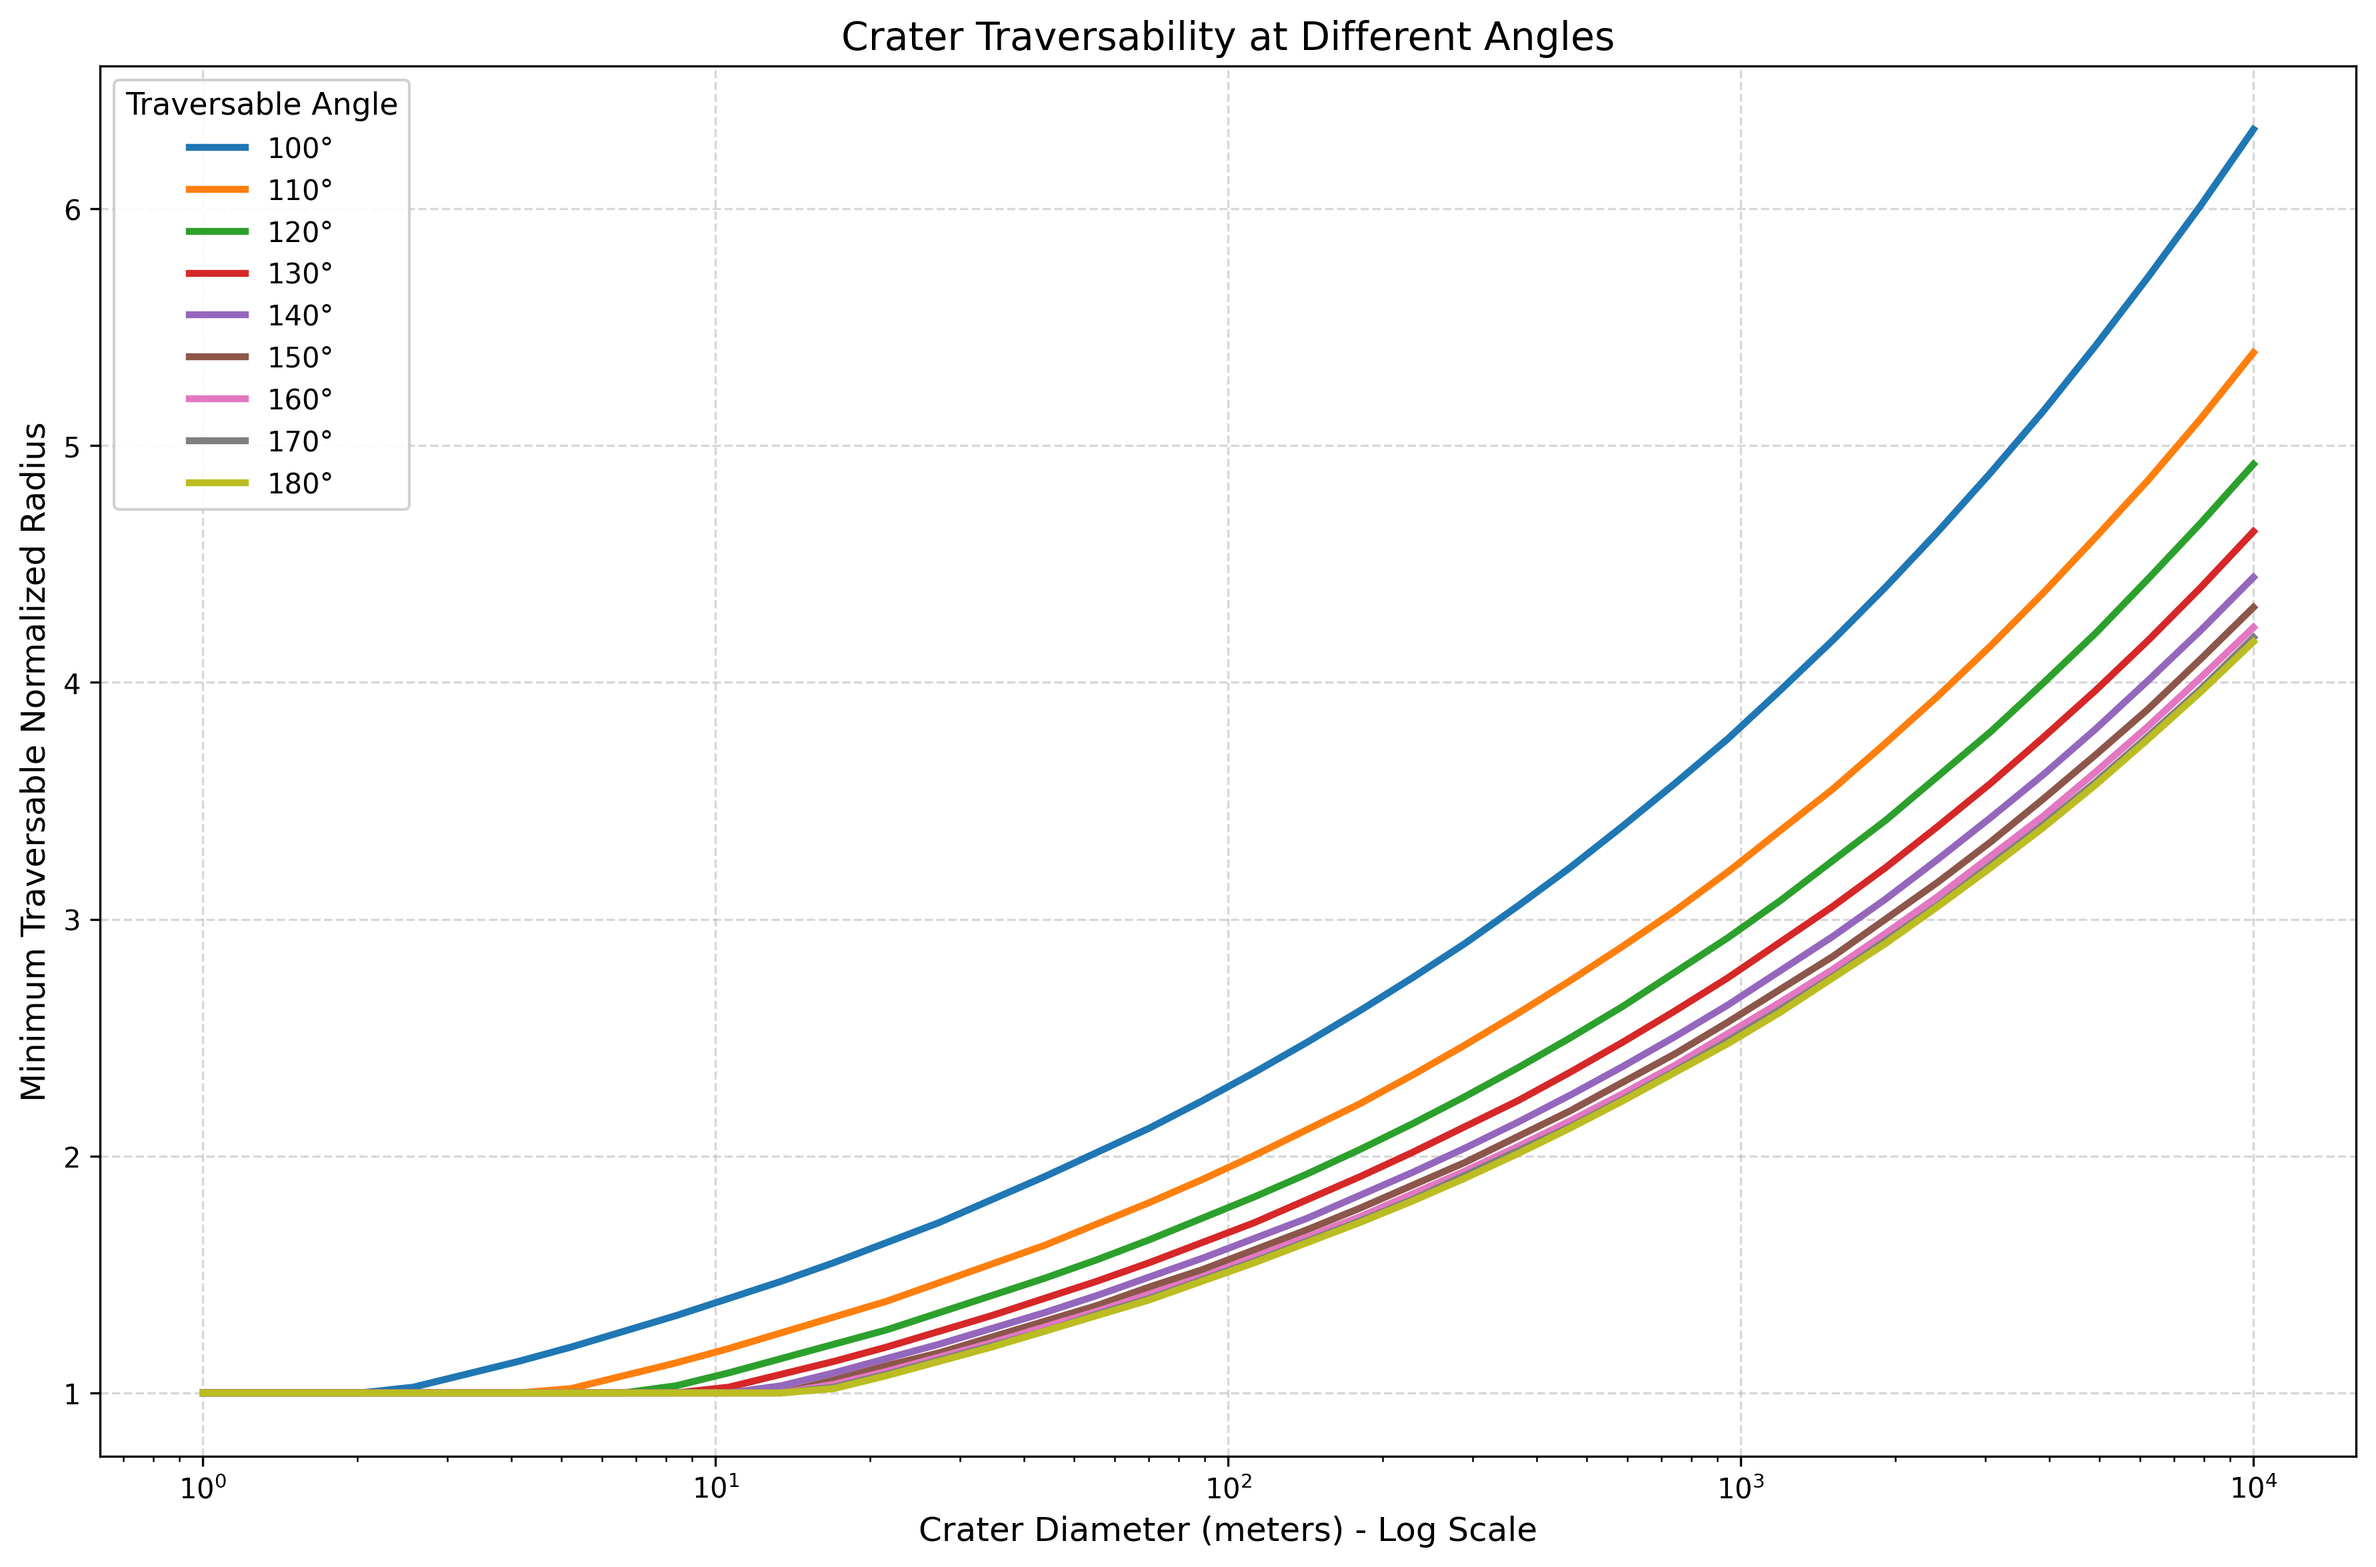
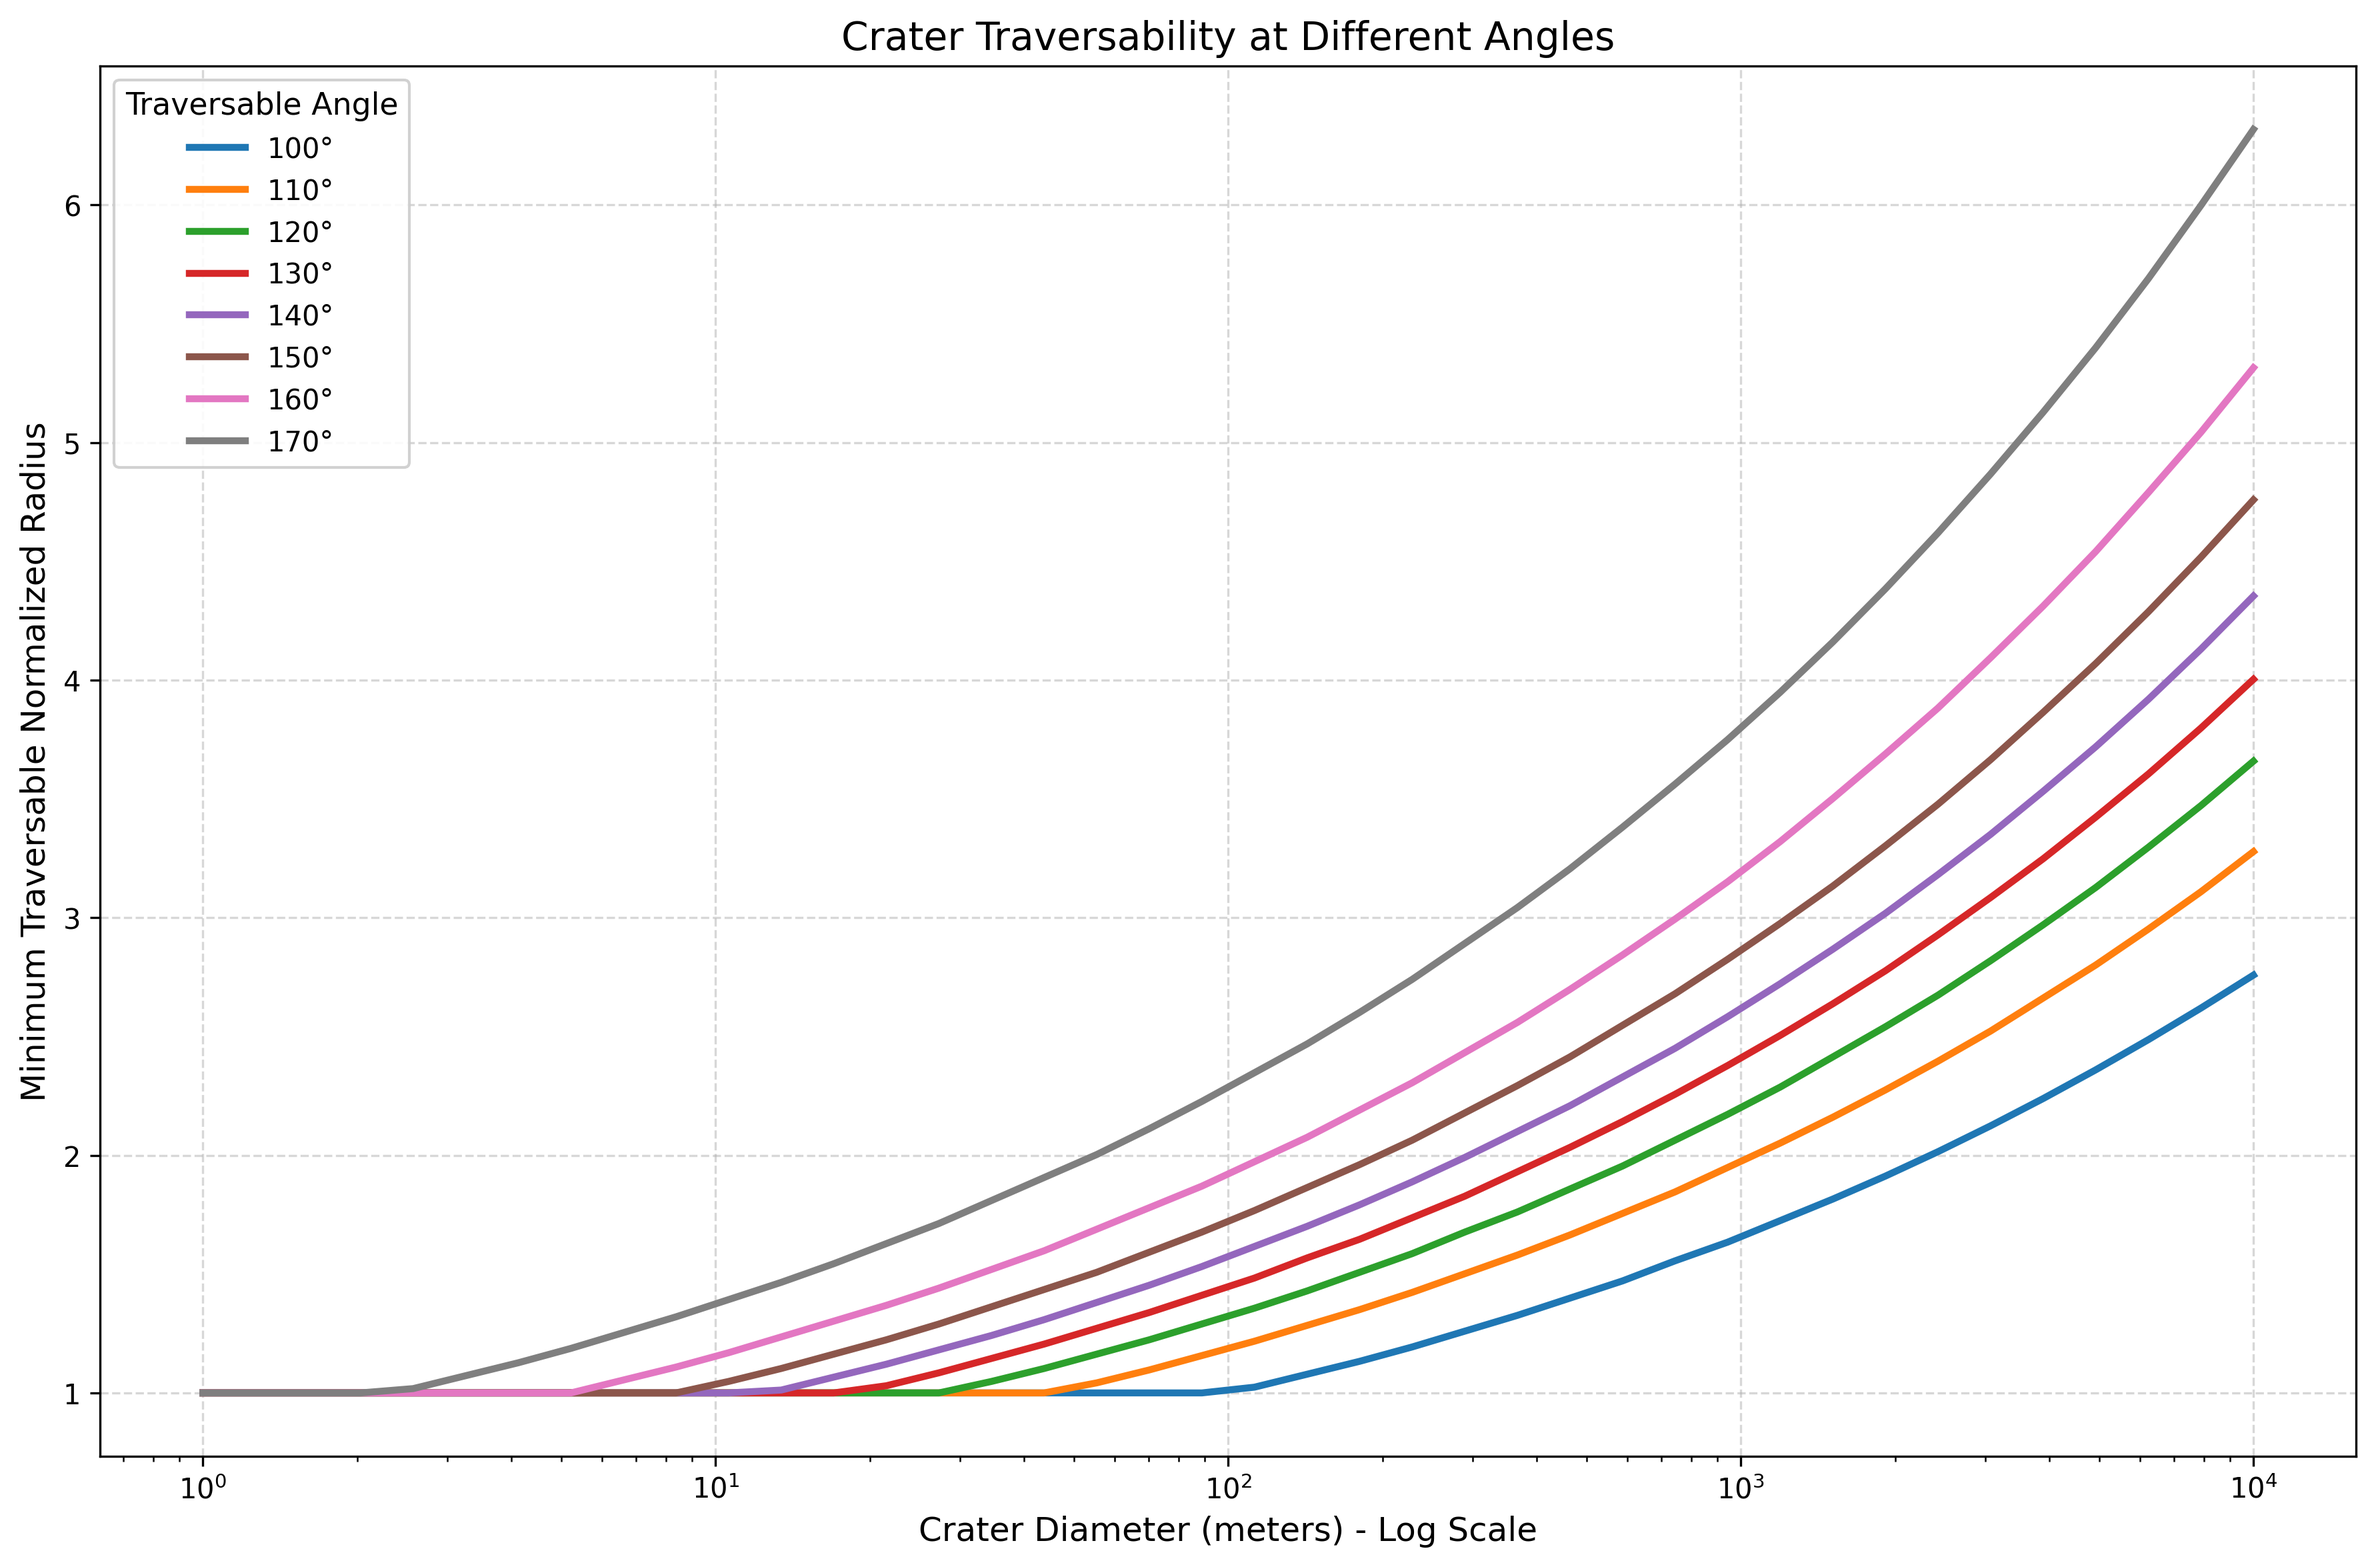
Naman | Slopes

diff --git a/elevation_profile/small_crater_elevation_profile.py b/elevation_profile/small_crater_elevation_profile.py
@@ -61,16 +61,16 @@ class SmallCraterElevationProfile(ElevationProfile):
     
     def get_min_traversable_normalized_radius(self, traversable_slope_degrees: int) -> float:
         """Get the maximum traversable radius.
-        
+        0
         Returns:
-            The r_norm at which the slope is cos(80°) and r_norm > 1
+            The r_norm at which the slope is cos(170°) and r_norm > 1
         """
-        cos_slope = np.cos(np.radians(traversable_slope_degrees))
+        slope = np.tan(np.radians(traversable_slope_degrees))
         l, r = 1, 100
         while r - l > 0.01:
             mid = (l + r) / 2
             s = self.slope(mid)
-            if s < cos_slope:
+            if s < slope:
                 l = mid
             else:
                 r = mid

diff --git a/slope.py b/slope.py
@@ -7,7 +7,7 @@ def main():
     # Starting from a small positive value instead of 0 to avoid potential issues
     diameters = np.logspace(0, 4, 40)  # Exponential range from 1 to 10000
     
-    angles = np.arange(100, 185, 10)
+    angles = np.arange(100, 180, 10)
     
     # Create the plot
     plt.figure(figsize=(12, 8))
